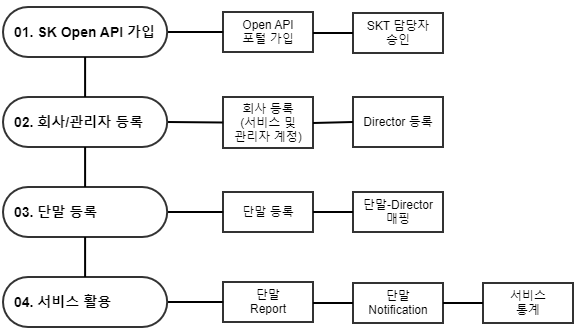
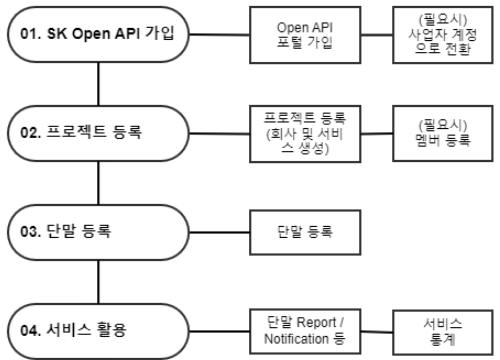
modified:   images/procedure_ovs4.png 	modified:   procedure.rst

Changed region(s): [[0.0, 0.0, 0.99, 1.0]]

diff --git a/procedure.rst b/procedure.rst
@@ -11,19 +11,29 @@
 OVSE 플랫폼을 사용하려는 파트너들을 위한 매뉴얼입니다. 
 
 
-전체 세부 절차
+.. _service-procedure-overview:
+
+전체 절차
 ------------------
 
 .. rst-class:: text-align-justify
 
-OVSE 플랫폼을 이용하기 위한 절차는 다음과 같이 구성되어 있습니다.
+OVSE 플랫폼을 이용하기 위한 절차는 다음과 같이 구성되어 있으며,
+SK Open API 포털에서 제공하는 `OVSE API <https://openapi.sk.com/>`__ 혹은 본 `OVSE 웹문서 <https://ovs-document.readthedocs.io/>`__ 에서 확인할 수 있습니다.
 
 .. image:: images/procedure_ovs4.png
 	:width: 70%
 	:align: center
 
 
-위 절차들은 SK 오픈 API 포털에서 제공하는 `Open API <https://openapi.sk.com/>`__ 혹은 본 `OVSE 웹문서 <https://ovs-document.readthedocs.io/>`__ 에서 확인할 수 있습니다.
+.. _service-procedure-step1:
+
+SK Open API 가입
+---------------------
+OVSE 플랫폼 및 API는 `SK Open API 포털<https://openapi.sk.com/>`__ 가입후 이용할 수 있습니다. 
+
+
+
 
 서비스 이용 안내
 ---------------------
